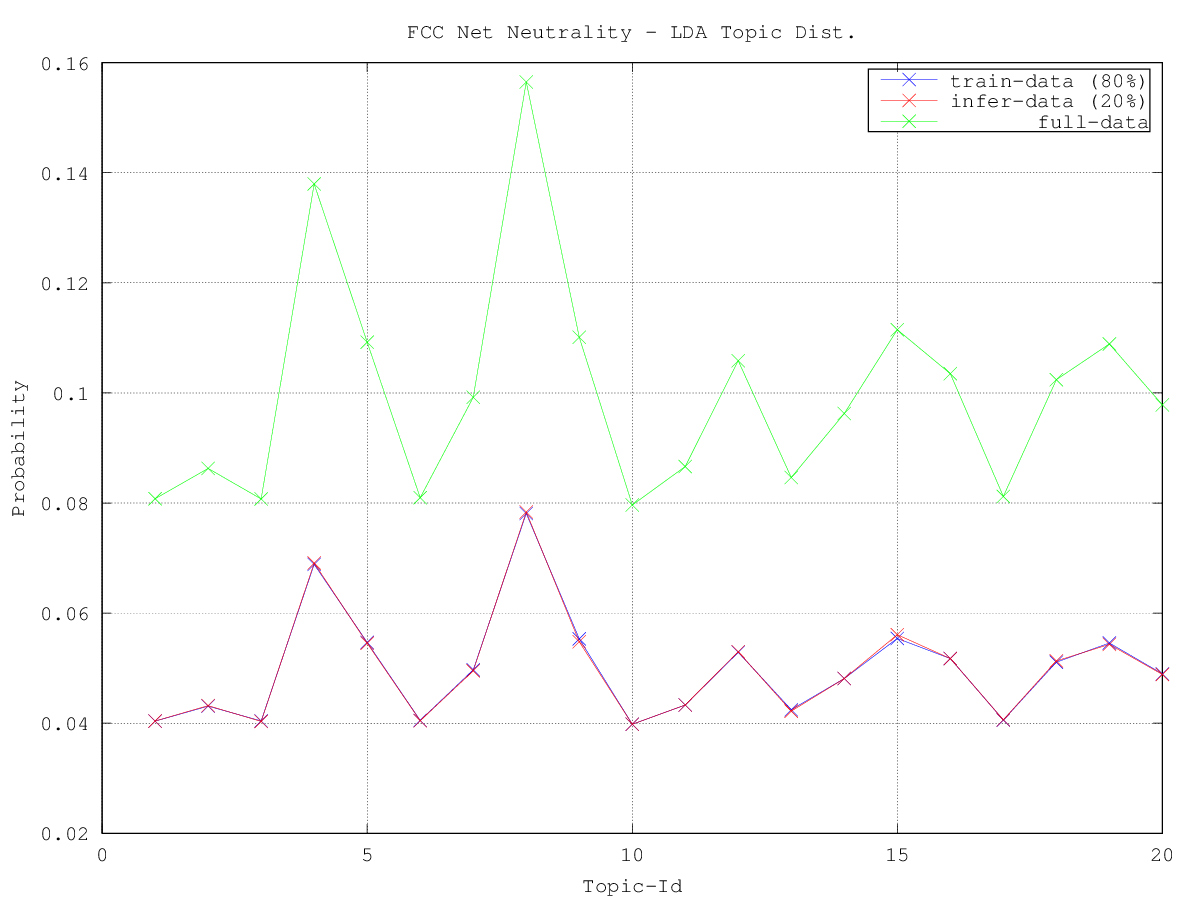
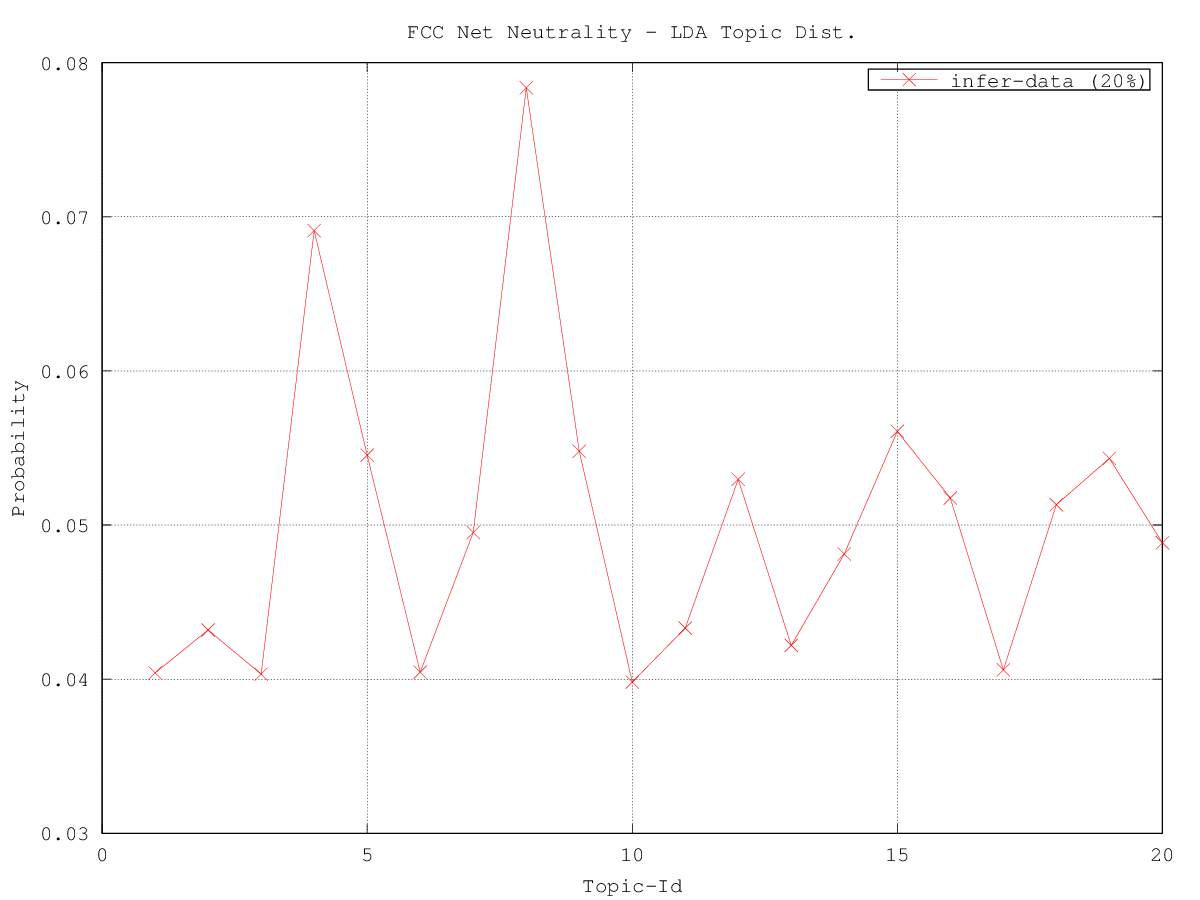
updated topic dist.

diff --git a/viz/plot_topic_dist.m b/viz/plot_topic_dist.m
@@ -9,14 +9,15 @@ full_data = DATA(:,4);
 
 % plot
 figure; hold on; 
-plot(topic, train_data, 'bx-');
+% plot(topic, train_data, 'bx-');
 plot(topic, infer_data, 'rx-');
-plot(topic, full_data, 'gx-');
+% plot(topic, full_data, 'gx-');
 grid on;
 xlabel('Topic-Id');
 ylabel('Probability');
 title('FCC Net Neutrality - LDA Topic Dist.');
-legend('train-data (80%)','infer-data (20%)', 'full-data');
+% legend('train-data (80%)','infer-data (20%)', 'full-data');
+legend('infer-data (20%)');
 
 % print
 print -dpng 'lda.topic_dist.png';

diff --git a/viz/topic_dist.m b/viz/topic_dist.m
@@ -9,7 +9,7 @@ Infer = dlmread (strcat(DataDir,'/infer.doc_topics.txt'), '\t', 1, 2);
 % topic dist
 A = sum(Train) / size(Train,1);
 B = sum(Infer) / size(Infer,1);
-C = A + B;
+C = (0.8*A + 0.2*B);
 
 % put all together
 M = [ [1:numTopics]' A' B' C'];
